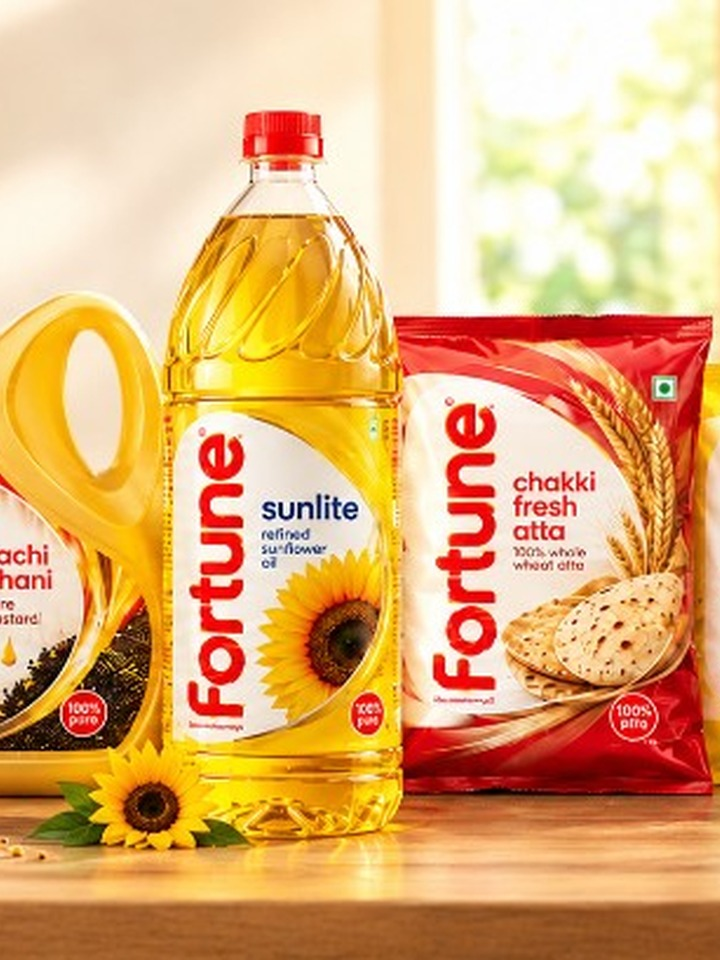
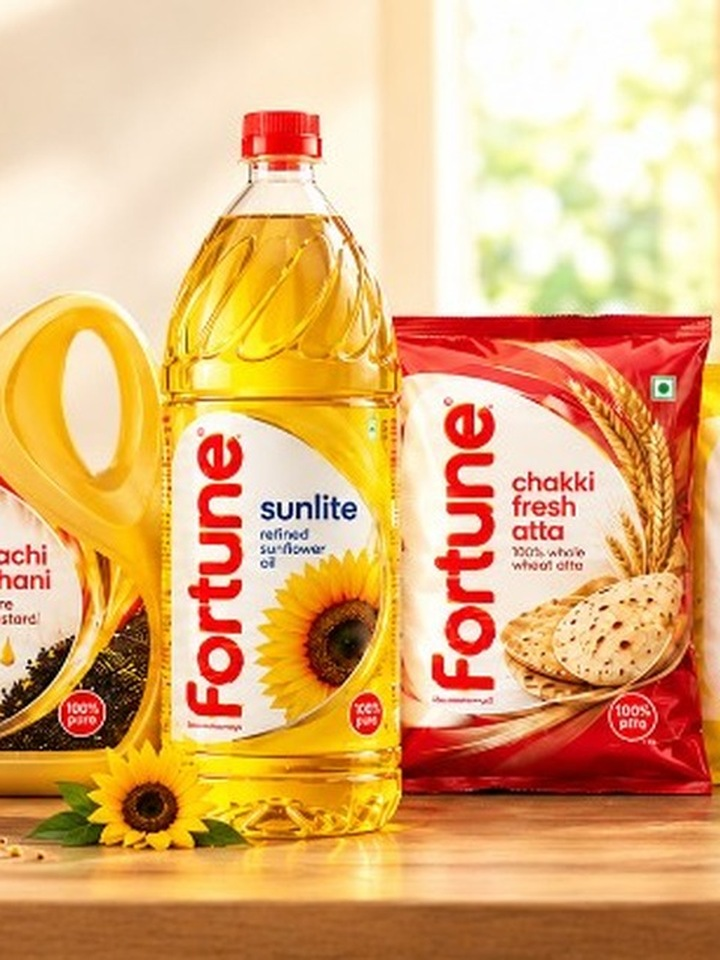
Update hero images and styles in index.html and style.css for improved responsiveness
- Adjusted media queries for hero images in index.html to support a wider range of screen sizes.
- Modified object positioning and background colors in style.css for better visual alignment of hero images.
- Replaced binary hero images for enhanced visual consistency.

diff --git a/index.html b/index.html
@@ -42,11 +42,11 @@
                     <img src="images/hero/hero-bailley-bg.jpg?v=4" alt="Bailley packaged drinking water" decoding="async" fetchpriority="high">
                 </picture>
                 <picture class="hero-photo hero-photo-bisleri">
-                    <source media="(max-width: 768px)" srcset="images/hero/hero-bisleri-mobile.jpg?v=5">
+                    <source media="(max-width: 900px)" srcset="images/hero/hero-bisleri-mobile.jpg?v=6">
                     <img src="images/hero/hero-bisleri-bg.jpg?v=5" alt="Bisleri packaged drinking water" decoding="async">
                 </picture>
                 <picture class="hero-photo hero-photo-fortune">
-                    <source media="(max-width: 768px)" srcset="images/hero/hero-fortune-mobile.jpg?v=4">
+                    <source media="(max-width: 900px)" srcset="images/hero/hero-fortune-mobile.jpg?v=6">
                     <img src="images/hero/hero-fortune-bg.jpg?v=4" alt="Fortune edible oils and foods" decoding="async" fetchpriority="high">
                 </picture>
             </div>

diff --git a/css/style.css b/css/style.css
@@ -6665,10 +6665,10 @@ body.is-scrolled.is-fortune .btn-nav-contact:hover {
     .hero-slides .hero-photo-bisleri,
     .hero-slides .hero-photo-bisleri img {
         object-fit: cover !important;
-        object-position: center top !important;
+        object-position: center 42% !important;
         filter: none !important;
         image-rendering: auto !important;
-        background-color: #00a9a5;
+        background-color: #0a6b8a;
         max-width: none !important;
         min-width: 100% !important;
         min-height: 100% !important;
@@ -6679,7 +6679,7 @@ body.is-scrolled.is-fortune .btn-nav-contact:hover {
     .hero-slides .hero-photo-fortune,
     .hero-slides .hero-photo-fortune img {
         object-fit: cover !important;
-        object-position: center center !important;
+        object-position: center 40% !important;
         filter: none !important;
         image-rendering: auto !important;
         background-color: #f3efe8;
